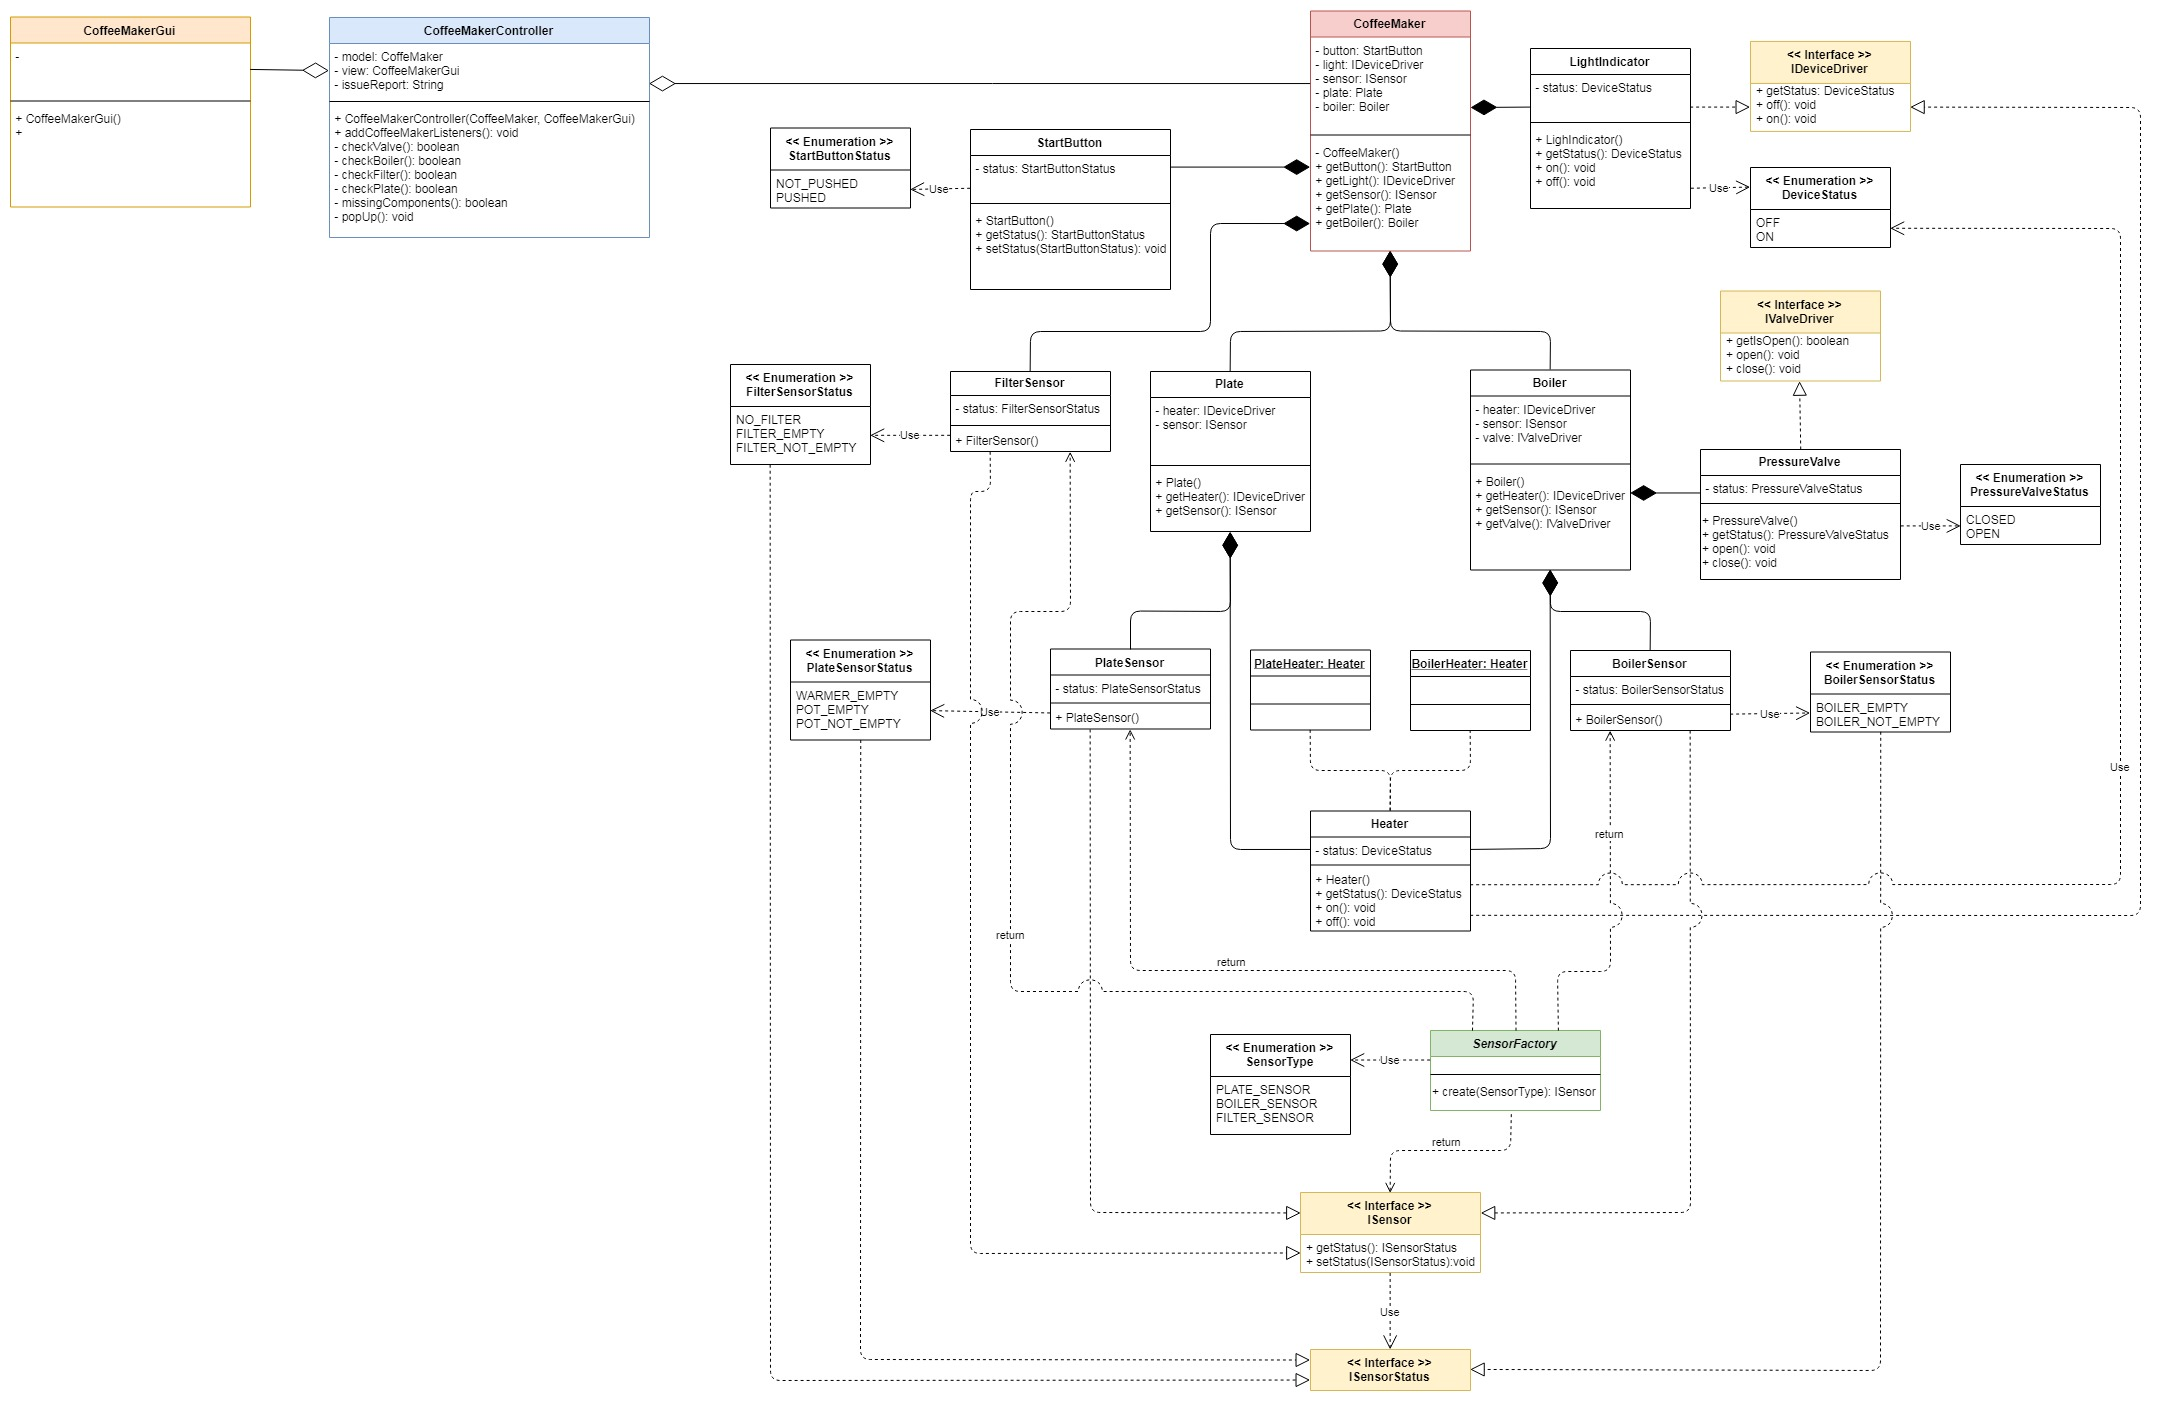
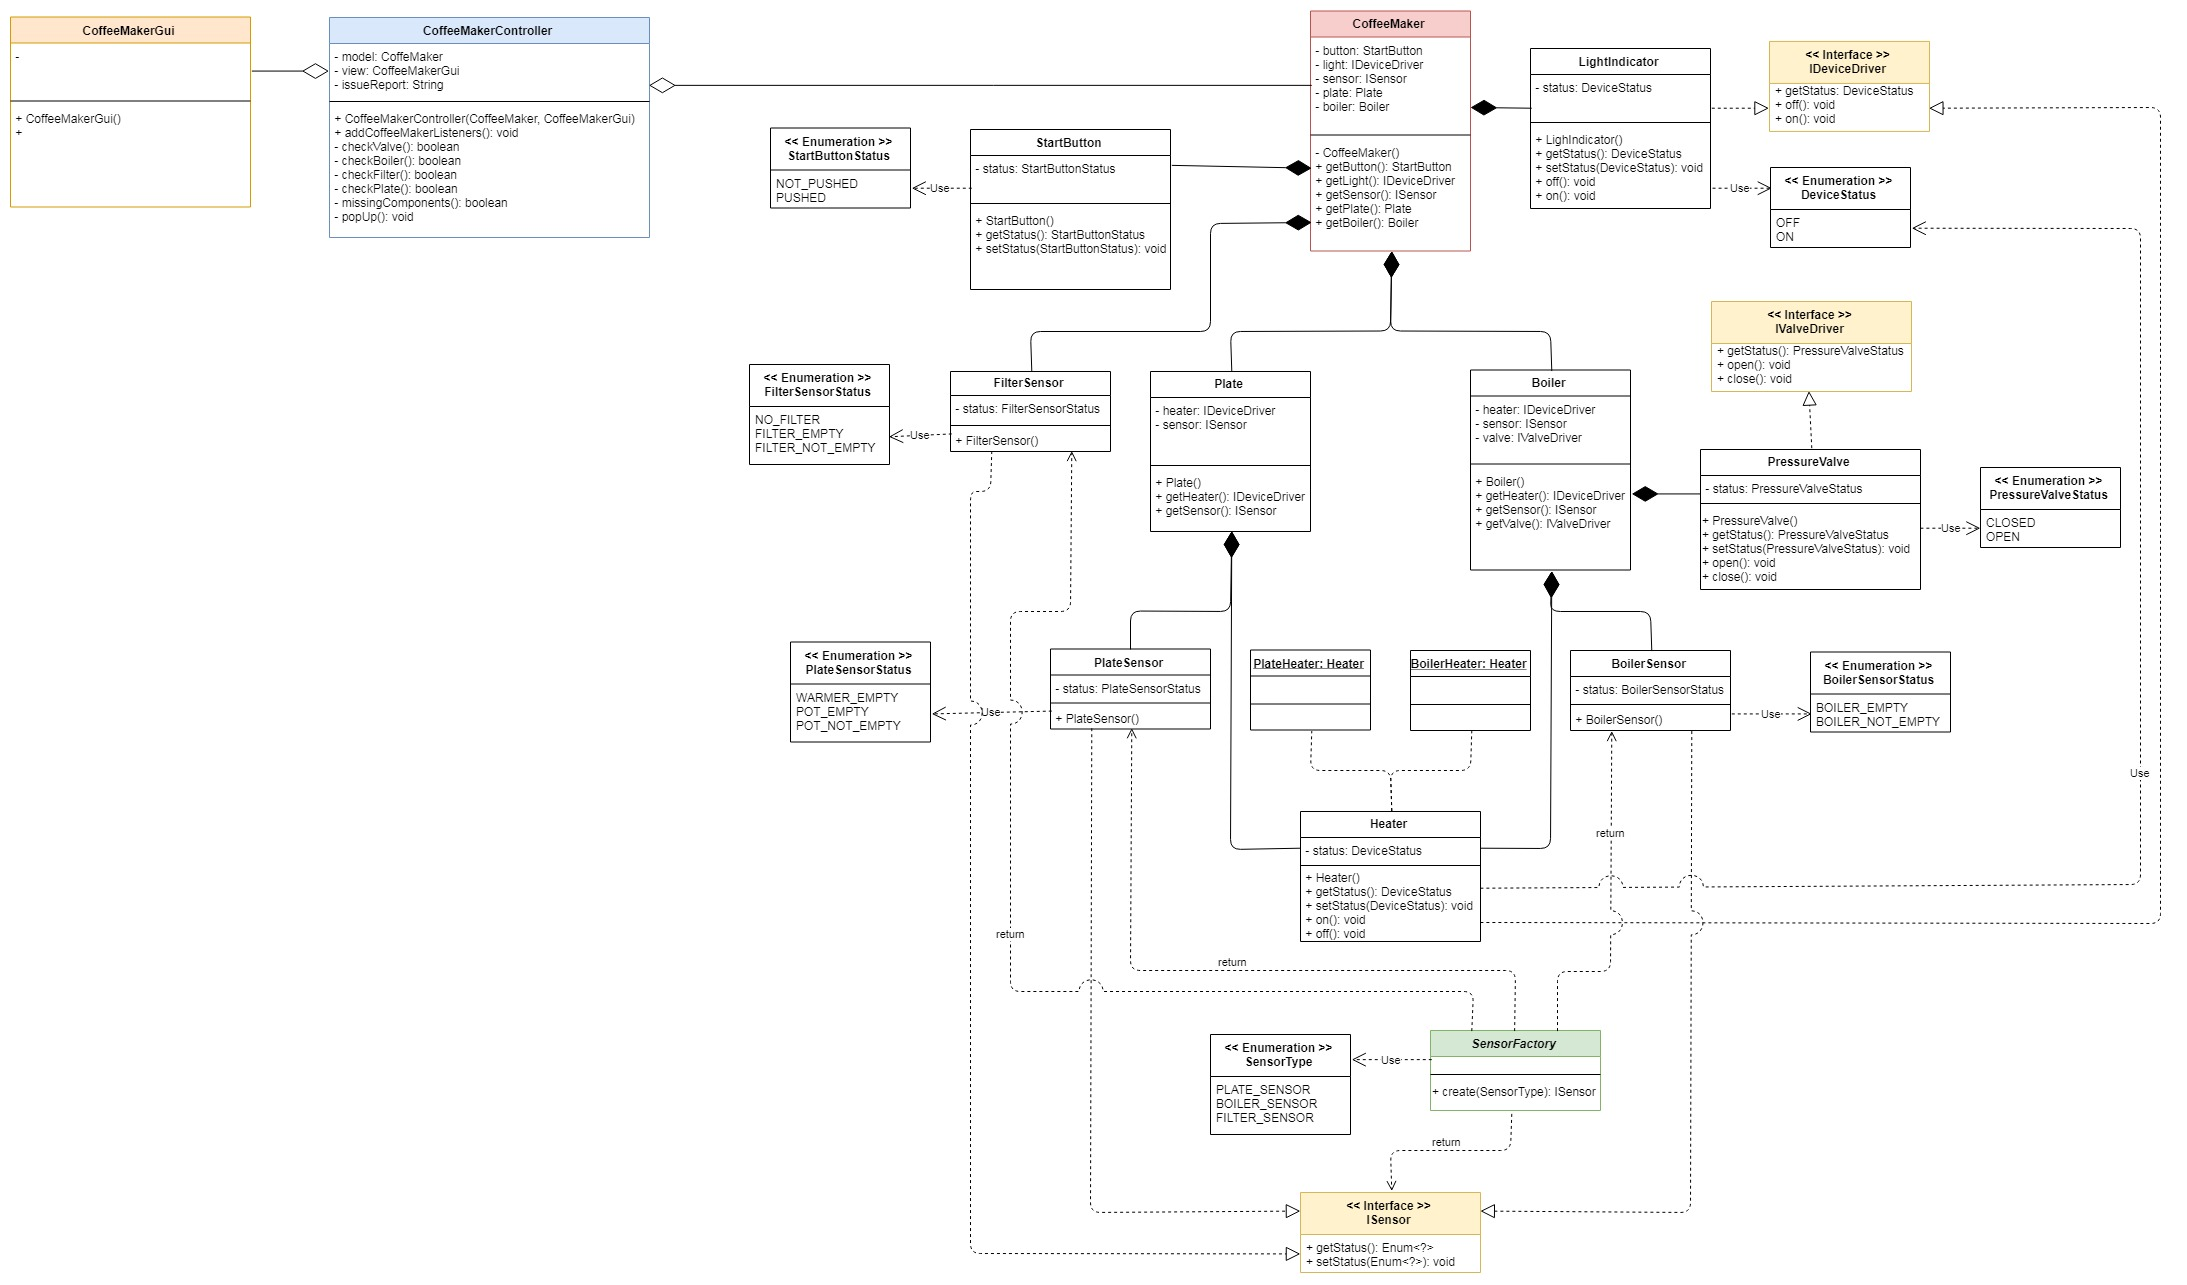
Dummy "ISensorStatus" removed. UML Diagram update.

diff --git a/src/model/PressureValve.java b/src/model/PressureValve.java
@@ -11,11 +11,15 @@ public class PressureValve implements IValveDriver {
 		return status;
 	}
 
+	public void setStatus(PressureValveStatus status) {
+		this.status = status; 
+	}
+
 	public void open() {
-		status = PressureValveStatus.OPEN; 
+		this.setStatus(PressureValveStatus.OPEN); 
 	}
 
 	public void close() {
-		status = PressureValveStatus.CLOSED; 
+		this.setStatus(PressureValveStatus.CLOSED); 
 	}
 }

diff --git a/src/model/LightIndicator.java b/src/model/LightIndicator.java
@@ -11,11 +11,15 @@ public class LightIndicator implements IDeviceDriver {
 		return status;
 	}
 	
+	public void setStatus(DeviceStatus status) {
+		this.status = status;
+	}
+	
 	public void off() {
-		status = DeviceStatus.OFF;
+		this.setStatus(DeviceStatus.OFF);
 	}
 	
 	public void on() {
-		status = DeviceStatus.ON;
+		this.setStatus(DeviceStatus.ON);
 	}
 }

diff --git a/src/model/Heater.java b/src/model/Heater.java
@@ -11,11 +11,15 @@ public class Heater implements IDeviceDriver {
 		return status;
 	}
 	
+	public void setStatus(DeviceStatus status) {
+		this.status = status;
+	}
+	
 	public void off() {
-		status = DeviceStatus.OFF;
+		this.setStatus(DeviceStatus.OFF);
 	}
 	
 	public void on() {
-		status = DeviceStatus.ON;
+		this.setStatus(DeviceStatus.ON);
 	}
 }

diff --git a/src/model/FilterSensor.java b/src/model/FilterSensor.java
@@ -11,7 +11,7 @@ public class FilterSensor implements ISensor {
 		return this.status;
 	}
 	
-	public void setStatus(ISensorStatus status) {
+	public void setStatus(Enum<?> status) {
 		this.status = (FilterSensorStatus) status; 
 	}
 }

diff --git a/src/model/PlateSensor.java b/src/model/PlateSensor.java
@@ -11,7 +11,7 @@ public class PlateSensor implements ISensor {
 		return this.status;
 	}
 	
-	public void setStatus(ISensorStatus status) {
+	public void setStatus(Enum<?> status) {
 		this.status = (PlateSensorStatus) status;
 	}
 }

diff --git a/src/model/BoilerSensor.java b/src/model/BoilerSensor.java
@@ -11,7 +11,7 @@ public class BoilerSensor implements ISensor {
 		return status;
 	}
 	
-	public void setStatus(ISensorStatus status) {
+	public void setStatus(Enum<?> status) {
 		this.status = (BoilerSensorStatus) status;
 	}
 }

diff --git a/src/model/ISensor.java b/src/model/ISensor.java
@@ -1,6 +1,6 @@
 package model;
 
 public interface ISensor {
-	public ISensorStatus getStatus();
-	public void setStatus(ISensorStatus status);
+	public Enum<?> getStatus();
+	public void setStatus(Enum<?> status);
 }

diff --git a/src/model/FilterSensorStatus.java b/src/model/FilterSensorStatus.java
@@ -1,6 +1,6 @@
 package model;
 
-public enum FilterSensorStatus implements ISensorStatus {
+public enum FilterSensorStatus {
 	NO_FILTER,
 	FILTER_EMPTY,
 	FILTER_NOT_EMPTY

diff --git a/src/model/PlateSensorStatus.java b/src/model/PlateSensorStatus.java
@@ -1,6 +1,6 @@
 package model;
 
-public enum PlateSensorStatus implements ISensorStatus {
+public enum PlateSensorStatus {
 	WARMER_EMPTY,
 	POT_EMPTY,
 	POT_NOT_EMPTY

diff --git a/src/model/BoilerSensorStatus.java b/src/model/BoilerSensorStatus.java
@@ -1,6 +1,6 @@
 package model;
 
-public enum BoilerSensorStatus implements ISensorStatus {
+public enum BoilerSensorStatus {
 	BOILER_EMPTY,
 	BOILER_NOT_EMPTY
 }
